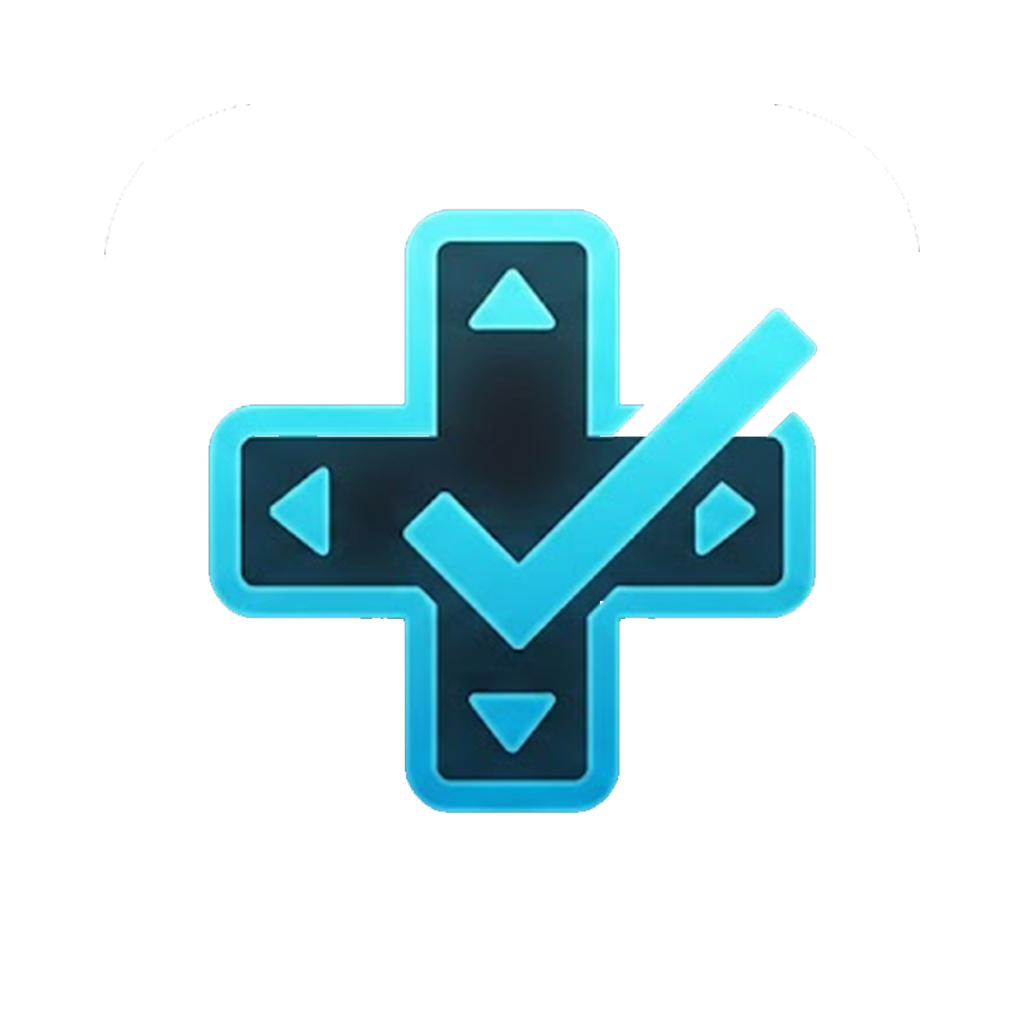
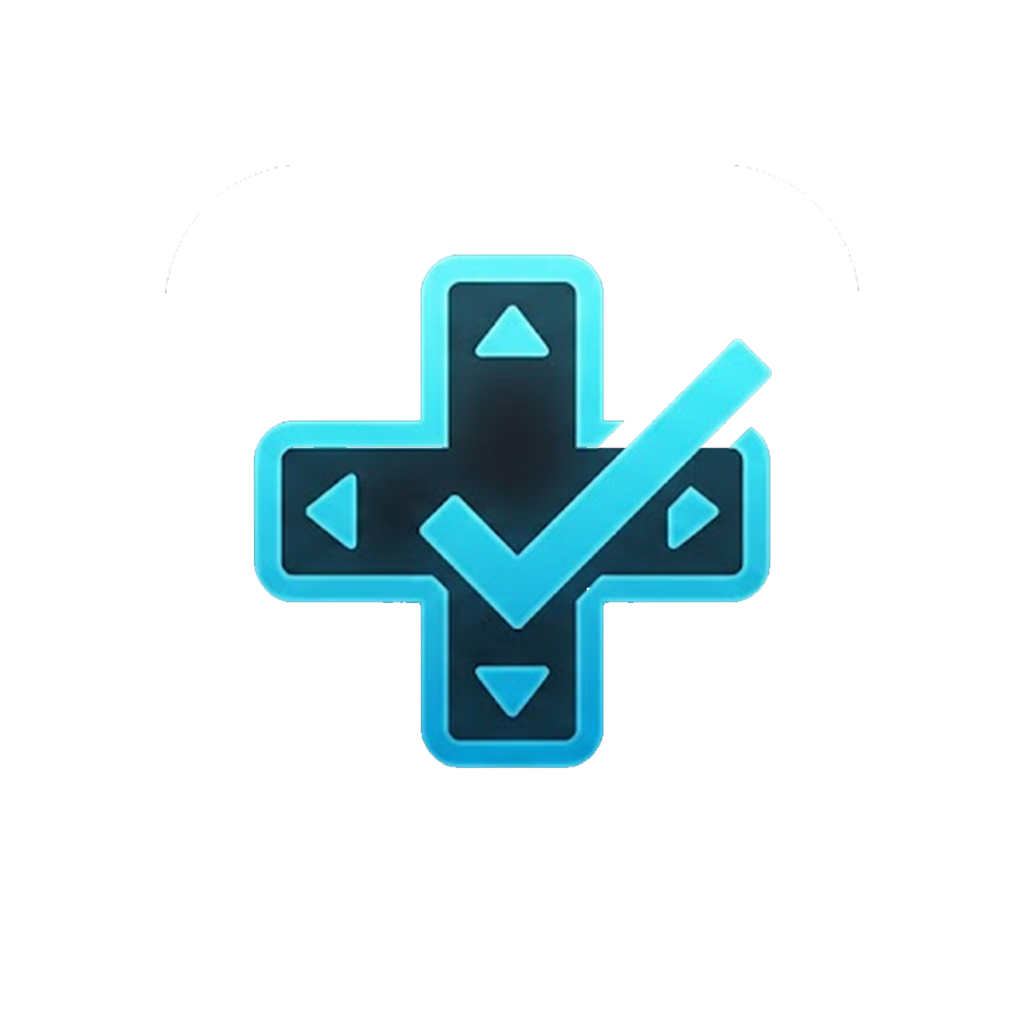
Fix premature logout: add token refresh interceptor and proactive renewal
Access tokens expire after 15 minutes, but web and mobile only ever
refreshed once on mount/launch (guarded by refreshedRef so it never
ran again). Any API call after that point 401'd permanently until a
full reload/app restart, which presented as being logged out despite
a valid 30-day refresh token.

- Add a 401-triggered refresh-and-retry interceptor to request() in
  both apps/web/lib/api.ts and apps/mobile/src/lib/api.ts, deduped via
  a shared in-flight refresh promise so concurrent 401s don't trigger
  multiple refresh calls. Refresh failure clears the token/session
  instead of retrying.
- Remove the "refresh once" guard; add a proactive 10-minute refresh
  timer to both auth contexts.
- Add an AppState foreground listener on mobile to refresh when the
  app resumes from background, debounced to avoid spamming refresh.

Also includes the pending mobile adaptive icon art update
(apps/mobile/assets/adaptive-icon.png).

Claude-Session: https://claude.ai/code/session_01KbcJwhvyc94YZ4DCcfM24i

Changed region(s): [[0.1875, 0.1875, 0.8125, 0.8125]]

diff --git a/apps/mobile/src/contexts/AuthContext.tsx b/apps/mobile/src/contexts/AuthContext.tsx
@@ -1,8 +1,13 @@
 import { createContext, useCallback, useContext, useEffect, useRef, useState } from "react";
+import { AppState, AppStateStatus } from "react-native";
 import * as SecureStore from "expo-secure-store";
-import { api } from "../lib/api";
+import { api, refreshAccessToken, setAuthHandlers } from "../lib/api";
 
 const REFRESH_TOKEN_KEY = "quest_refresh_token";
+// Proactively refresh well before the 15-minute JWT expiry.
+const PROACTIVE_REFRESH_INTERVAL_MS = 10 * 60 * 1000;
+// Avoid spamming refresh calls if the app is rapidly backgrounded/foregrounded.
+const MIN_FOREGROUND_REFRESH_GAP_MS = 60 * 1000;
 
 interface AuthState {
   token: string | null;
@@ -16,25 +21,68 @@ const AuthContext = createContext<AuthState | null>(null);
 export function AuthProvider({ children }: { children: React.ReactNode }) {
   const [token, setToken] = useState<string | null>(null);
   const [isLoading, setIsLoading] = useState(true);
-  const refreshedRef = useRef(false);
+  const lastRefreshAtRef = useRef(0);
+  const appStateRef = useRef(AppState.currentState);
 
+  // Wire api.ts's 401-retry interceptor (and proactive/foreground refresh
+  // below) back into this context's state/storage so the rest of the app
+  // always sees a fresh access token without needing an app restart.
   useEffect(() => {
-    if (refreshedRef.current) return;
-    refreshedRef.current = true;
+    setAuthHandlers({
+      getRefreshToken: () => SecureStore.getItemAsync(REFRESH_TOKEN_KEY),
+      onTokenRefreshed: (accessToken) => {
+        lastRefreshAtRef.current = Date.now();
+        setToken(accessToken);
+      },
+      onAuthFailure: () => {
+        setToken(null);
+        SecureStore.deleteItemAsync(REFRESH_TOKEN_KEY).catch(() => {});
+      },
+    });
+    return () => setAuthHandlers({});
+  }, []);
 
-    SecureStore.getItemAsync(REFRESH_TOKEN_KEY)
-      .then(async (stored) => {
-        if (!stored) return;
-        const res = await api.refresh(stored);
-        setToken(res.accessToken);
+  // Initial silent refresh on launch.
+  useEffect(() => {
+    refreshAccessToken()
+      .catch(() => {
+        // Failure already handled via onAuthFailure above.
       })
-      .catch(() => setToken(null))
       .finally(() => setIsLoading(false));
   }, []);
+
+  // Proactive refresh timer while authenticated, so the access token never
+  // gets a chance to expire mid-session.
+  useEffect(() => {
+    if (!token) return;
+    const interval = setInterval(() => {
+      refreshAccessToken().catch((err) => console.error("Proactive token refresh failed:", err));
+    }, PROACTIVE_REFRESH_INTERVAL_MS);
+    return () => clearInterval(interval);
+  }, [token]);
+
+  // Refresh when the app comes back to the foreground from background, since
+  // the 15-minute access token may well have expired while backgrounded.
+  useEffect(() => {
+    const subscription = AppState.addEventListener("change", (nextState: AppStateStatus) => {
+      const prevState = appStateRef.current;
+      appStateRef.current = nextState;
+      if (
+        nextState === "active" &&
+        prevState !== "active" &&
+        token &&
+        Date.now() - lastRefreshAtRef.current > MIN_FOREGROUND_REFRESH_GAP_MS
+      ) {
+        refreshAccessToken().catch((err) => console.error("Foreground token refresh failed:", err));
+      }
+    });
+    return () => subscription.remove();
+  }, [token]);
 
   const login = useCallback(async (username: string, password: string) => {
     const res = await api.login(username, password);
     await SecureStore.setItemAsync(REFRESH_TOKEN_KEY, res.refreshToken);
+    lastRefreshAtRef.current = Date.now();
     setToken(res.accessToken);
   }, []);
 

diff --git a/apps/mobile/src/lib/api.ts b/apps/mobile/src/lib/api.ts
@@ -332,19 +332,77 @@ export class ApiError extends Error {
   }
 }
 
+// ─── Auth refresh / 401 retry ───────────────────────────────────────────────
+
+const AUTH_NO_RETRY_PATHS = new Set(["/api/auth/login", "/api/auth/refresh"]);
+
+interface AuthHandlers {
+  getRefreshToken?: () => Promise<string | null>;
+  onTokenRefreshed?: (accessToken: string) => void;
+  onAuthFailure?: () => void;
+}
+
+let authHandlers: AuthHandlers = {};
+
+export function setAuthHandlers(handlers: AuthHandlers): void {
+  authHandlers = handlers;
+}
+
+let refreshPromise: Promise<string> | null = null;
+
+/**
+ * Performs a silent token refresh, deduping concurrent callers onto a single
+ * in-flight request. Resolves with the new access token; rejects (and
+ * notifies onAuthFailure) if there's no stored refresh token, or it's no
+ * longer valid.
+ */
+export function refreshAccessToken(): Promise<string> {
+  if (!refreshPromise) {
+    refreshPromise = (async () => {
+      const stored = await authHandlers.getRefreshToken?.();
+      if (!stored) throw new ApiError(401, "No refresh token available");
+      const res = await request<{ accessToken: string }>("/api/auth/refresh", {
+        method: "POST",
+        body: JSON.stringify({ refreshToken: stored }),
+      });
+      authHandlers.onTokenRefreshed?.(res.accessToken);
+      return res.accessToken;
+    })()
+      .catch((err) => {
+        authHandlers.onAuthFailure?.();
+        throw err;
+      })
+      .finally(() => {
+        refreshPromise = null;
+      });
+  }
+  return refreshPromise;
+}
+
 // ─── Core request helper ──────────────────────────────────────────────────────
 
 async function request<T>(
   path: string,
-  options: RequestInit & { token?: string } = {}
+  options: RequestInit & { token?: string; _isRetry?: boolean } = {}
 ): Promise<T> {
-  const { token, ...init } = options;
+  const { token, _isRetry, ...init } = options;
   const headers = new Headers(init.headers as HeadersInit);
   if (init.body) headers.set("Content-Type", "application/json");
   if (token) headers.set("Authorization", `Bearer ${token}`);
 
   const res = await fetch(`${API_BASE}${path}`, { ...init, headers });
   if (!res.ok) {
+    if (res.status === 401 && !_isRetry && token && !AUTH_NO_RETRY_PATHS.has(path)) {
+      let newToken: string | undefined;
+      try {
+        newToken = await refreshAccessToken();
+      } catch {
+        // Refresh failed; fall through and surface the original 401.
+      }
+      if (newToken) {
+        return request<T>(path, { ...options, token: newToken, _isRetry: true });
+      }
+    }
     const body = await res.json().catch(() => ({}));
     throw new ApiError(
       res.status,

diff --git a/apps/web/lib/api.ts b/apps/web/lib/api.ts
@@ -493,11 +493,51 @@ export function cancelAllRequests(): void {
   activeControllers.clear();
 }
 
+// ─── Auth refresh / 401 retry ───────────────────────────────────────────────
+
+const AUTH_NO_RETRY_PATHS = new Set(["/api/auth/login", "/api/auth/refresh"]);
+
+interface AuthHandlers {
+  onTokenRefreshed?: (accessToken: string) => void;
+  onAuthFailure?: () => void;
+}
+
+let authHandlers: AuthHandlers = {};
+
+export function setAuthHandlers(handlers: AuthHandlers): void {
+  authHandlers = handlers;
+}
+
+let refreshPromise: Promise<string> | null = null;
+
+/**
+ * Performs a silent token refresh, deduping concurrent callers onto a single
+ * in-flight request. Resolves with the new access token; rejects (and
+ * notifies onAuthFailure) if the refresh token is no longer valid.
+ */
+export function refreshAccessToken(): Promise<string> {
+  if (!refreshPromise) {
+    refreshPromise = request<{ accessToken: string }>("/api/auth/refresh", { method: "POST" })
+      .then((res) => {
+        authHandlers.onTokenRefreshed?.(res.accessToken);
+        return res.accessToken;
+      })
+      .catch((err) => {
+        authHandlers.onAuthFailure?.();
+        throw err;
+      })
+      .finally(() => {
+        refreshPromise = null;
+      });
+  }
+  return refreshPromise;
+}
+
 async function request<T>(
   path: string,
-  options: RequestInit & { token?: string; signal?: AbortSignal } = {}
+  options: RequestInit & { token?: string; signal?: AbortSignal; _isRetry?: boolean } = {}
 ): Promise<T> {
-  const { token, signal, ...init } = options;
+  const { token, signal, _isRetry, ...init } = options;
   const headers = new Headers(init.headers);
   if (init.body) headers.set("Content-Type", "application/json");
   if (token) headers.set("Authorization", `Bearer ${token}`);
@@ -505,6 +545,17 @@ async function request<T>(
   try {
     const res = await fetch(`${BASE}${path}`, { ...init, headers, credentials: "include", signal });
     if (!res.ok) {
+      if (res.status === 401 && !_isRetry && token && !AUTH_NO_RETRY_PATHS.has(path)) {
+        let newToken: string | undefined;
+        try {
+          newToken = await refreshAccessToken();
+        } catch {
+          // Refresh failed; fall through and surface the original 401.
+        }
+        if (newToken) {
+          return request<T>(path, { ...options, token: newToken, _isRetry: true });
+        }
+      }
       const body = await res.json().catch(() => ({}));
       throw new ApiError(res.status, (body as { error?: string }).error ?? res.statusText);
     }

diff --git a/apps/web/lib/auth-context.tsx b/apps/web/lib/auth-context.tsx
@@ -1,7 +1,10 @@
 "use client";
 
-import { createContext, useCallback, useContext, useEffect, useRef, useState } from "react";
-import { api } from "./api";
+import { createContext, useCallback, useContext, useEffect, useState } from "react";
+import { api, refreshAccessToken, setAuthHandlers } from "./api";
+
+// Proactively refresh well before the 15-minute JWT expiry.
+const PROACTIVE_REFRESH_INTERVAL_MS = 10 * 60 * 1000;
 
 interface AuthState {
   token: string | null;
@@ -15,20 +18,34 @@ const AuthContext = createContext<AuthState | null>(null);
 export function AuthProvider({ children }: { children: React.ReactNode }) {
   const [token, setToken] = useState<string | null>(null);
   const [isLoading, setIsLoading] = useState(true);
-  const refreshedRef = useRef(false);
 
+  // Wire api.ts's 401-retry interceptor (and proactive refresh below) back
+  // into this context's state so the rest of the app always sees a fresh
+  // access token without needing a full reload.
   useEffect(() => {
-    if (refreshedRef.current) return;
-    refreshedRef.current = true;
-    api
-      .refresh()
-      .then((res) => setToken(res.accessToken))
-      .catch((err) => {
-        console.error("Token refresh failed:", err);
-        setToken(null);
-      })
+    setAuthHandlers({
+      onTokenRefreshed: (accessToken) => setToken(accessToken),
+      onAuthFailure: () => setToken(null),
+    });
+    return () => setAuthHandlers({});
+  }, []);
+
+  // Initial silent refresh on mount (relies on the httpOnly refresh-token cookie).
+  useEffect(() => {
+    refreshAccessToken()
+      .catch((err) => console.error("Token refresh failed:", err))
       .finally(() => setIsLoading(false));
   }, []);
+
+  // Proactive refresh timer while authenticated, so the access token never
+  // gets a chance to expire mid-session.
+  useEffect(() => {
+    if (!token) return;
+    const interval = setInterval(() => {
+      refreshAccessToken().catch((err) => console.error("Proactive token refresh failed:", err));
+    }, PROACTIVE_REFRESH_INTERVAL_MS);
+    return () => clearInterval(interval);
+  }, [token]);
 
   const login = useCallback(async (username: string, password: string) => {
     const res = await api.login(username, password);

diff --git a/docs/changelog.md b/docs/changelog.md
@@ -1,5 +1,16 @@
 # Changelog
 
+## June 30, 2026
+
+### Frontend – Web
+- Fix premature logout: `request()` now retries once on 401 via a deduped, refresh-and-retry interceptor instead of failing permanently after the 15-minute access token expires `0572dde`
+- Remove the "refresh once" guard; add a proactive 10-minute refresh timer in `auth-context.tsx` so the access token renews before it expires `0572dde`
+
+### Frontend – Mobile
+- Fix premature logout: same 401 retry interceptor and proactive 10-minute refresh timer as web `0572dde`
+- Add `AppState` foreground listener so the access token refreshes when the app resumes from background, debounced to avoid redundant calls `0572dde`
+- Adaptive icon art updated `0572dde`
+
 ## June 28, 2026
 
 ### Frontend – Web
